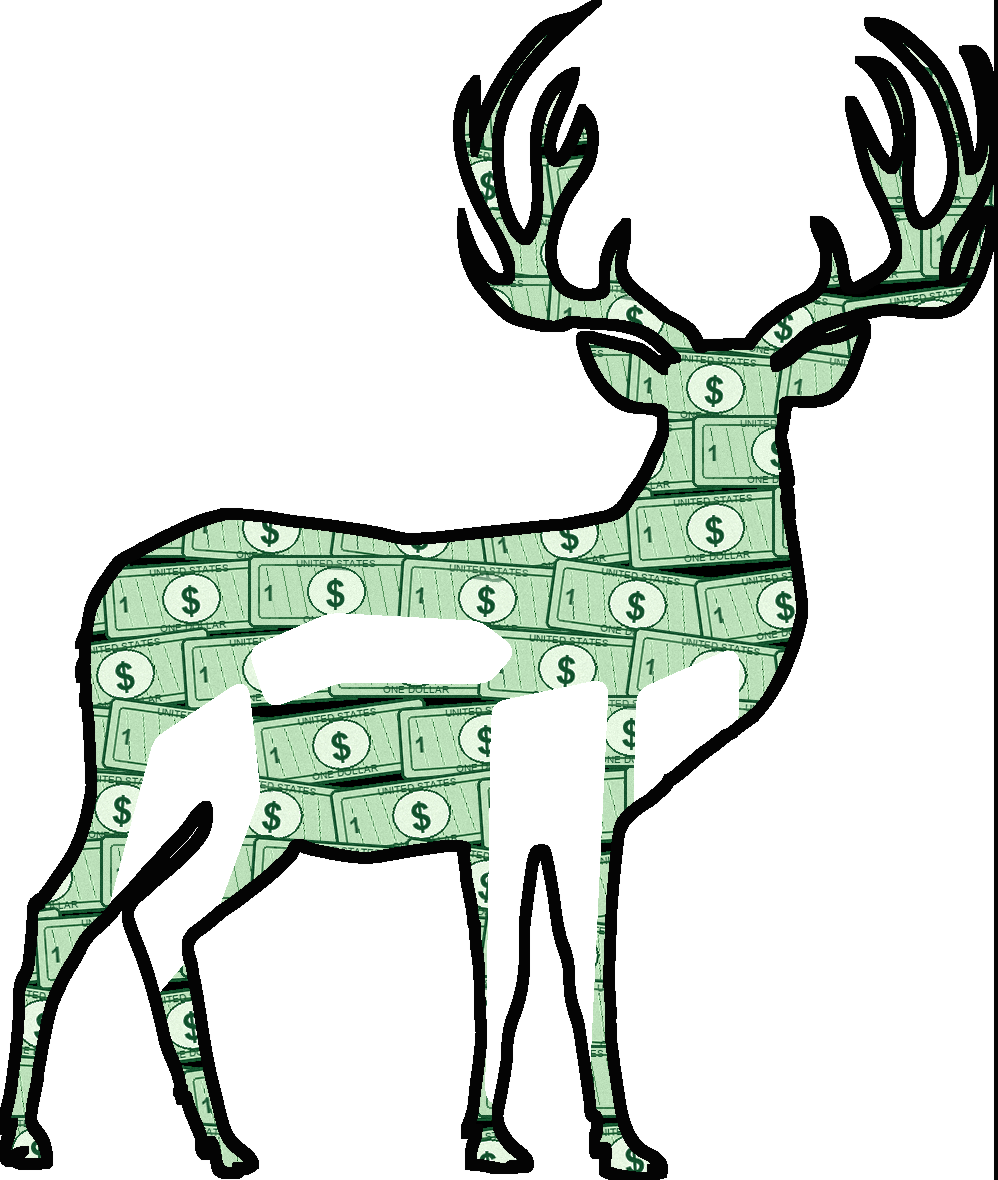
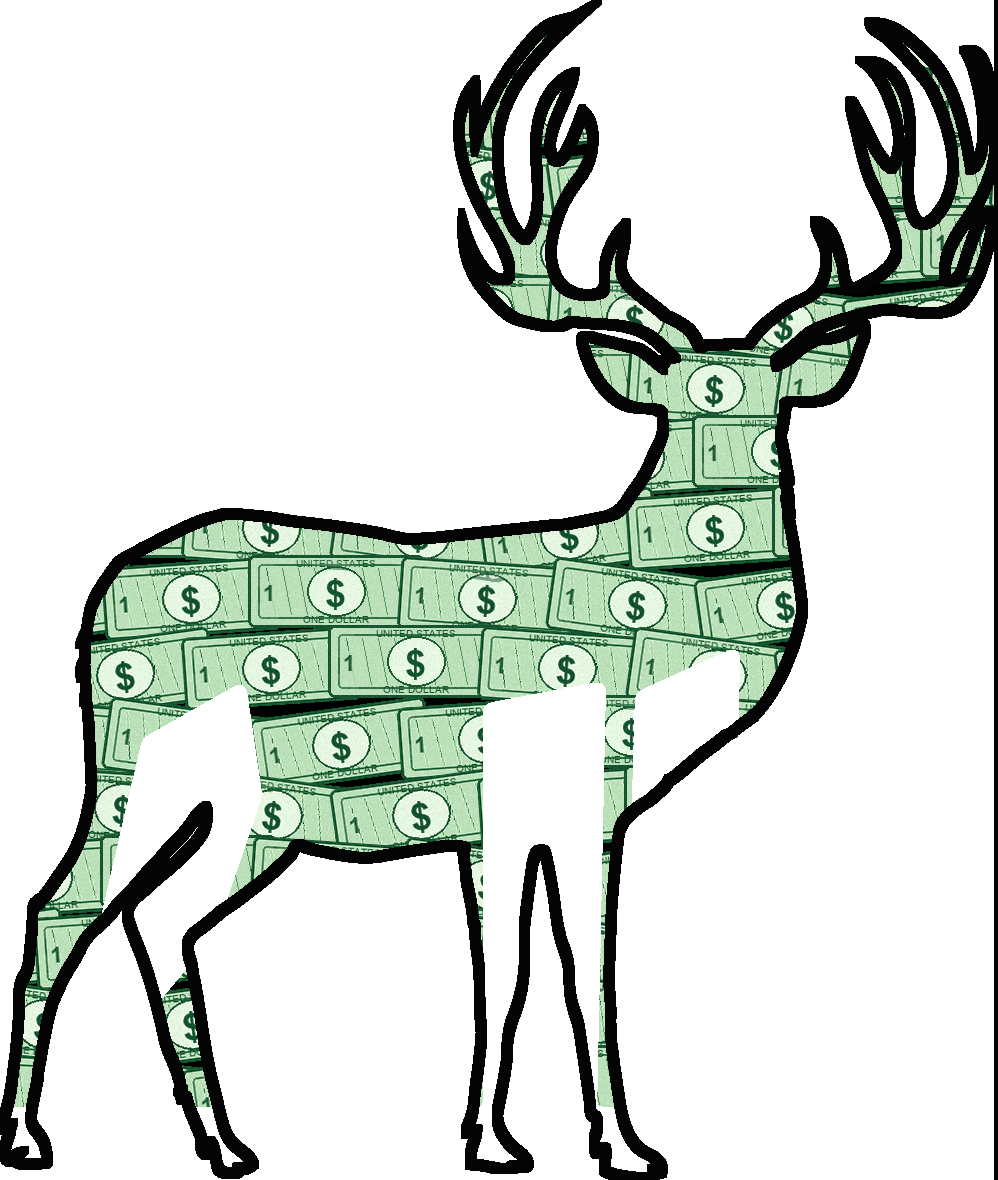
Refine account entry and hero promo video

diff --git a/founding.html b/founding.html
@@ -378,10 +378,10 @@
     <div class="plan-badge">Most Popular</div>
     <div class="plan-name">Inner Circle</div>
     <div class="plan-price">$97 <span>one-time</span></div>
-    <div class="plan-desc">Everything in Founding Member + $25 account credit on launch + your name in the app. Only 5 spots.</div>
+    <div class="plan-desc">Everything in Founding Member + your choice at launch: 25 bucks in account credit or 25 Class A shares, plus your name in the app. Only 5 spots.</div>
     <ul class="plan-features">
       <li>Free FAWN Premium  - forever</li>
-      <li>$25 account credit when you open</li>
+      <li>Your choice: 25 bucks in account credit or 25 Class A shares</li>
       <li>Your name in the app credits</li>
       <li>Direct line to Alex (founder)</li>
       <li>Shape the roadmap  - vote on features</li>
@@ -398,7 +398,7 @@
     <div class="plan-desc">Everything in Inner Circle + a dedicated dev sprint on your feature request. For the people who want to help build this, not just use it.</div>
     <ul class="plan-features">
       <li>Free FAWN Premium  - forever</li>
-      <li>$25 account credit when you open</li>
+      <li>Your choice: 25 bucks in account credit or 25 Class A shares</li>
       <li>Dedicated dev sprint on your feature request</li>
       <li>Your name in the product credits</li>
       <li>Direct line to Alex (founder)</li>

diff --git a/index.html b/index.html
@@ -1278,8 +1278,10 @@
     <a href="#security">Security</a>
     <a href="#faq">FAQ</a>
     <a href="#news-feature">AI News</a>
+    <a href="login.html">Log in</a>
   </div>
   <div style="display:flex;align-items:center;gap:12px">
+    <a href="signup.html" class="nav-cta">Open Account &#8594;</a>
     <a href="founding.html" class="nav-cta">Founding Member &#8594;</a>
     <button class="nav-hamburger" onclick="toggleMobileMenu()" aria-label="Menu">
       <span></span><span></span><span></span>
@@ -1298,6 +1300,8 @@
   <a href="#security" onclick="closeMobileMenu()">Security</a>
   <a href="#faq" onclick="closeMobileMenu()">FAQ</a>
   <a href="#news-feature" onclick="closeMobileMenu()">AI News</a>
+  <a href="login.html" onclick="closeMobileMenu()">Log in</a>
+  <a href="signup.html" onclick="closeMobileMenu()" style="color:var(--green);font-weight:700">Open Account &#8594;</a>
   <a href="#waitlist" onclick="closeMobileMenu()" style="color:var(--green);font-weight:700">Join Waitlist &#8594;</a>
 </div>
 

diff --git a/assets/fawn-motion-philosophy.md b/assets/fawn-motion-philosophy.md
@@ -1,9 +1,9 @@
-# Minted Momentum
+# Neon Mutualism
 
-Minted Momentum treats money as living material: coins become hide, bills become muscle, and motion becomes proof of transformation. Space should feel deep and cinematic, with darkness used as a stage rather than a void. Forms enter with restraint, then accelerate with confidence, as if every frame were carefully placed by a master motion designer who labored over timing, contrast, and silhouette.
+Neon Mutualism frames a financial product as a heroic operating system. The visual world is not cute or mascot-led; it is a disciplined collision of interface design, engineering diagrams, kinetic banking panels, and old institutional architecture breaking under pressure. The work should feel meticulously crafted, like a cinematic product launch assembled by someone with master-level control over timing and hierarchy.
 
-The palette is disciplined: black, silver, banknote green, and FAWN green, with small flashes of warm gold. The work should feel meticulously crafted, not loud for its own sake. Texture carries the story. Text appears only as impact marks: short phrases, sparse labels, and brand signals that behave like visual percussion rather than explanation.
+Space is structured like a dashboard and staged like an anime title sequence: deep black fields, precise panels, luminous green circuitry, and sudden heroic scale shifts. Text stays minimal and percussive. The design communicates through motion, grids, cards, towers, cracks, and glowing system states rather than explanation.
 
-Scale creates the drama. Small quarter-fawn imagery should feel delicate and almost collectible; the dollar-buck should arrive larger, sharper, and more mythic. The transformation must be readable through composition and rhythm, not through paragraphs. Every transition should have painstaking attention to balance so the piece feels like a polished artifact, not a screen recording.
+Color is purposeful: FAWN green as life and agency, cold blue as technical infrastructure, gold as student value, red only as fracture and threat. Every frame should look painstakingly composed, with spacing and component rhythm informed by product design discipline. Buttons, panels, and cards should feel tappable and real, even inside the cinematic sequence.
 
-The motion language should be heroic but clean: quick pushes, snap cuts, slow parallax, and precise reveal beats. The design should pair naturally with arena-sized pop-punk energy while remaining original and self-contained. The final video must look like the product of deep expertise, with every frame able to stand as a poster.
+The emotional reference is arena-scale transformation: small builders versus a massive old banking machine. The motion should be original, legally clean, and music-ready for a heroic track without embedding copyrighted audio. The final artifact should feel like a polished site-native trailer: banking, technology, student power, and the destruction of fee traps.